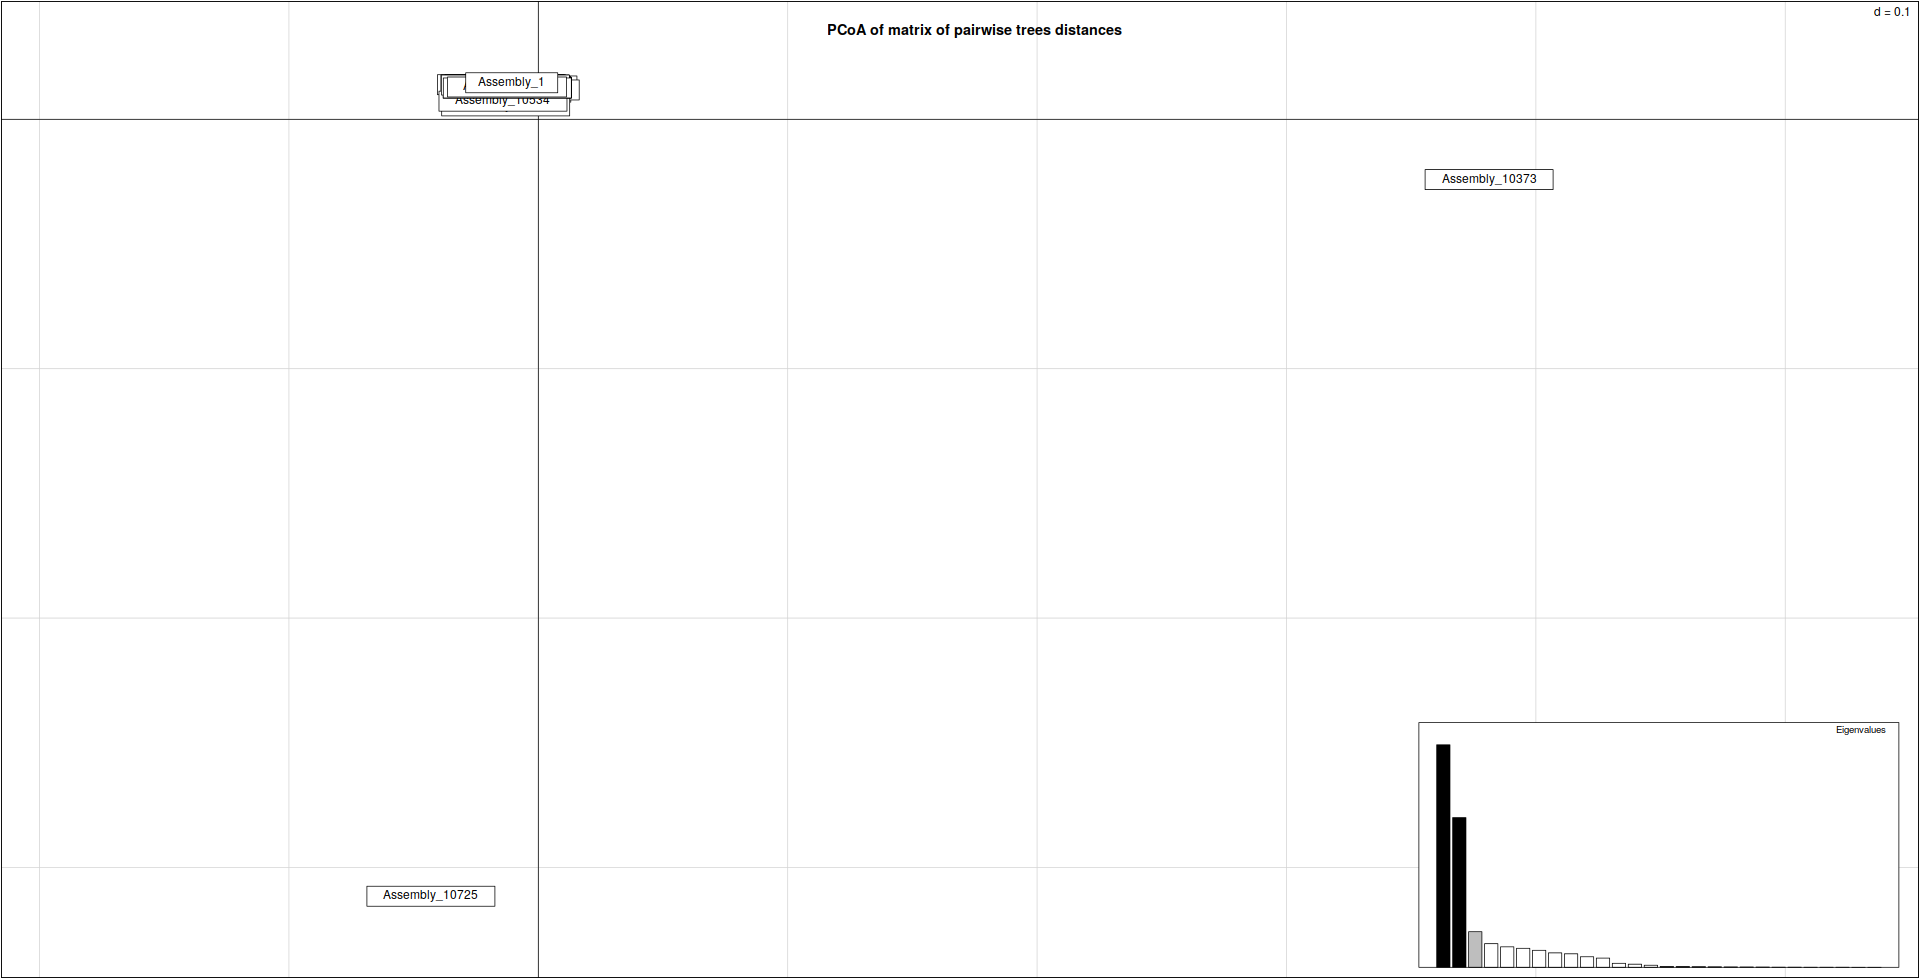
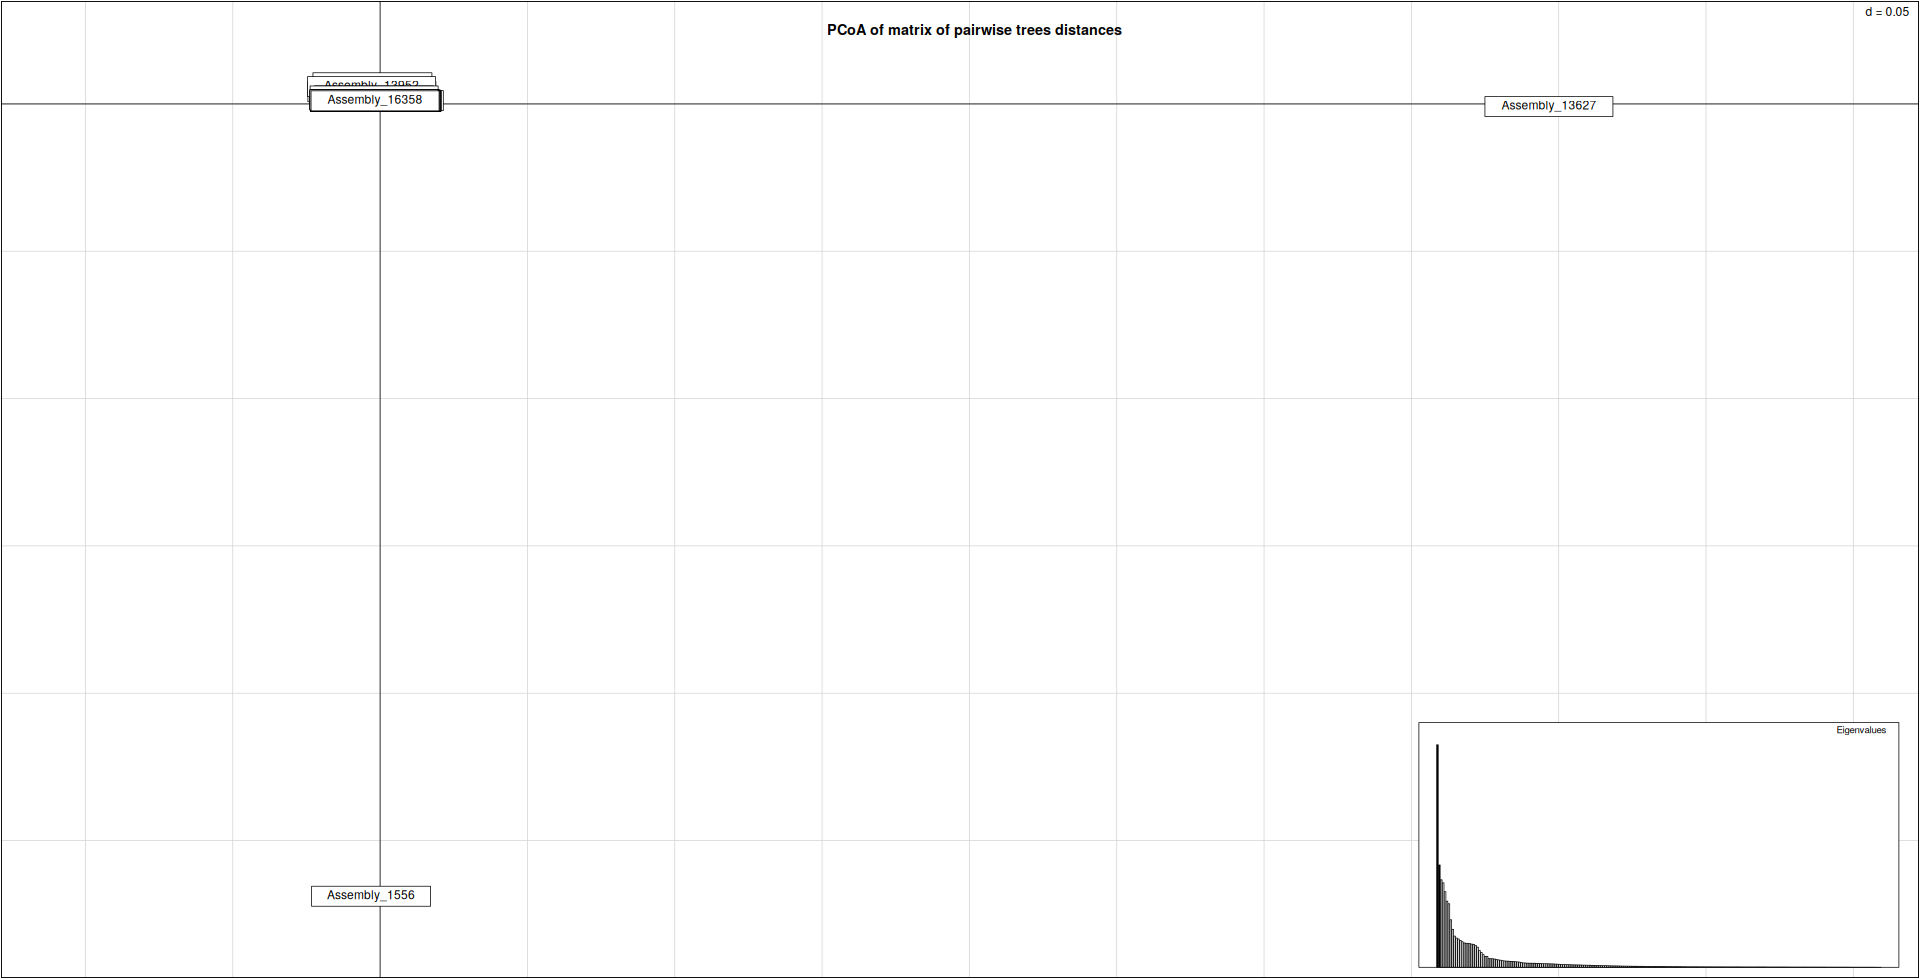
Updated filtration of trees in R, added installation of R packages. More info abou TreeShrink, PhyloNet and Phyparts.

diff --git a/presentation/hybseq_course.tex b/presentation/hybseq_course.tex
@@ -984,6 +984,22 @@
 	\end{block}
 \end{frame}
 
+\begin{frame}[fragile]{Install needed R packages}
+	\begin{itemize}
+		\item The tasks will be done in \href{https://www.r-project.org/}{R} (use e.g. \href{https://posit.co/products/open-source/rstudio/}{RStudio} or \href{https://rkward.kde.org/}{RKWard})
+		\item Following R code is available at \url{https://github.com/V-Z/hybseq-course/blob/master/trees_filtration.r} --- download it and edit according to your needs
+	\end{itemize}
+	\begin{spluscode}
+    # Install R packages
+    install.packages(pkgs=c("ape", "ade4", "distory", "gplots", "ggplot2",
+      "phangorn", "phytools"), repos="https://mirrors.nic.cz/R/",
+      dependencies="Imports")
+    # kdetrees is not availbale in CRAN, install it manually
+    install.packages(pkgs="https://cran.r-project.org/src/contrib/Archive/
+      kdetrees/kdetrees_0.1.5.tar.gz", repos=NULL)
+	\end{spluscode}
+\end{frame}
+
 \subsection{Visualizing differences among trees}
 
 \begin{frame}[allowframebreaks]{Distances comparing trees}
@@ -995,7 +1011,6 @@
 		\end{itemize}
 	\end{alertblock}
 	\begin{itemize}
-		\item The tasks will be done in \href{https://www.r-project.org/}{R}
 		\item Download e.g. \texttt{trees\_ml\_exons.nwk} (or another final list of gene trees) and work in \texttt{R} in your notebook
 		\begin{itemize}
 			\item Comparing plenty of individual gene trees, finding different topologies, construction of consensual species tree topology
@@ -1007,7 +1022,7 @@
 				\item If the difference is very close to root, RF value can be large, even there are not much differences in the tree at all --- \texttt{dist.multiPhylo} from package \href{https://CRAN.R-project.org/package=distory}{distory} can be an alternative, although interpretation of that geodesic distance is sometimes not so straightforward as simple logic of RF
 			\end{itemize}
 			\item Methods implemented in \texttt{ape::dist.topo} allow comparison of trees with polytomies (\texttt{method="PH85"}) or use of squared lengths of internal branches (\texttt{method="score"})
-			\item Final matrices are commonly not \href{https://en.wikipedia.org/wiki/Euclidean_distance_matrix}{Euclidean} --- may be problematic for usage in methods like PCA
+			\item Final matrices are commonly not \href{https://en.wikipedia.org/wiki/Euclidean_distance_matrix}{Euclidean} --- may be problematic for usage in methods like PCoA (it can show misleading results)
 			\begin{itemize}
 				\item Test it with \texttt{ade4::is.euclid}, can be scaled (forced to became Euclidean) by functions like \texttt{quasieuclid} or \texttt{cailliez} in \texttt{ade4} --- carefully, it can damage meaning of the data
 				\item We get matrix of pairwise differences among trees (from multiple genes), we need display and analyze it
@@ -1108,14 +1123,14 @@
 	\begin{spluscode}
     trees # See original trees
     # Remove trees identified in the PCoA plot
-    trees[c("Assembly_10373", "Assembly_10725")] <- NULL
+    trees[c("Assembly_1556", "Assembly_13627")] <- NULL
     trees # See new object
     # Possibly remove trees with too few tips
     print(trees, details=TRUE)
-    trees[c(1, 2, 7, 10, 14, 19, 20, 25)] <- NULL
-    trees
-    # Export filtered trees
-    write.tree(phy=trees, file="trees_exons_filtered.nwk")
+    trees[c(1, 2, 3, 4)] <- NULL
+    # Possibly remove rare tips
+    trees <- lapply(X=trees, FUN=drop.tip, tip=c("Amomum-sp7_S308_L001"))
+    class(trees) <- "multiPhylo" # Use after usage of lapply to multiPhylo
 	\end{spluscode}
 	\begin{itemize}
 		\item Now you can repeat recalculation of distance matrix and PCoA and possibly remove more trees\ldots{ }--- or use another method like kdetrees (next slide) etc.
@@ -1134,11 +1149,7 @@
 	\begin{spluscode}
     # Run kdetrees to detect outliers - play with k
     ?kdetrees # See options for kdetrees
-    # Remove rare tips
-    trees <- lapply(X=trees, FUN=drop.tip, tip=c("Paracostus_paradoxus_S266",
-      "Costus_tonkinensis_S268", "Orchidantha_chinensis_S352"))
-    class(trees) <- "multiPhylo"
-    trees.kde <- kdetrees(trees=trees, k=0.5 distance="dissimilarity",
+    trees.kde <- kdetrees(trees=trees, k=0.45 distance="dissimilarity",
       topo.only=FALSE, greedy=TRUE)
     # See text results with list of outlying trees
     trees.kde
@@ -1174,43 +1185,39 @@
 
 \begin{frame}[fragile]{TreeShrink}
 	\begin{itemize}
-		\item Algorithm for detecting abnormally long branches in one or more phylogenetic trees \href{https://bmcgenomics.biomedcentral.com/articles/10.1186/s12864-018-4620-2}{Mai et Mirarab 2018}
-		\item Requires \href{https://www.r-project.org/}{R} 4.0.X to be installed (e.g. module \texttt{R-4.0.0-gcc})
-		\item See \href{https://github.com/uym2/TreeShrink}{more usage options}
+		\item Algorithm for detecting abnormally long branches in one or more phylogenetic trees \href{https://bmcgenomics.biomedcentral.com/articles/10.1186/s12864-018-4620-2}{Mai et Mirarab 2018} (see \href{https://github.com/uym2/TreeShrink}{details})
+		\item Requires \href{https://www.r-project.org/}{R} 4.X to be installed (e.g. module \texttt{R-4.0.0-gcc})
+		\item Work in command line of your notebook (Linux, macOS), or on MetaCentrum
 	\end{itemize}
 	\begin{bashcode}
-    # Go to ~/bin directory
-    cd ~/bin/ || { mkdir ~/bin && cd ~/bin/; }
-    # Download TreeShrink
-    git clone https://github.com/uym2/TreeShrink.git
-    cd TreeShrink/
-    # Install it
-    python3 setup.py install --user # Or if using conda
-    conda install -c smirarab treeshrink
+    # On MetaCentrum load Python and R modules
+    module add python/3.9.12-gcc-10.2.1-rg2lpmk r/4.1.3-gcc-10.2.1-6xt26dl
+    cd ~/bin/ || { mkdir ~/bin && cd ~/bin/; } # Go to ~/bin directory
+    git clone https://github.com/uym2/TreeShrink.git # Download TreeShrink
+    cd TreeShrink/ # Install it
+    python3 setup.py install --user
+    conda install -c smirarab treeshrink # Or if using conda
     # Go to directory with trees_good.nwk and run TreeShrink
     python3 ~/.local/bin/run_treeshrink.py -h # See help
-    run_treeshrink.py -t trees_good.nwk -o treeshrink -O exons
-    ls -lha treeshrink/ # Results
+    run_treeshrink.py -t trees_good.nwk -o treeshrink_exons -O
+      treeshrink_exons | tee treeshrink.log
+    ls -lha treeshrink_exons/ # Results
 	\end{bashcode}
 \end{frame}
 
-\begin{frame}{Outputs of TreeShrink} % [fragile]
+\begin{frame} [fragile]{Outputs of TreeShrink}
 	\begin{itemize}
-		\item Output (3 files) is saved into directory (in our case) \texttt{treeshrink}
-		\item File \texttt{*.nwk} contains new list of phylogenetic trees in \texttt{NEWICK} which can be then used as an input for any species tree reconstruction software
-		\item \texttt{*.txt} files can be bit hard to read
-		\begin{itemize}
-			\item \texttt{exons.txt} has one line for every tree in the input list and every line contains list of removed tips --- if there is an empty line, no tip was removed from that particular tree; trees are not named, only in same order as in the original input file
-			\item \texttt{exons\_summary.txt} contains statistics for affected taxa
-		\end{itemize}
-		\item \texttt{exons.nwk} can be directly used as input for ASTRAL or so (see also lesson by TF)
+		\item Output (2 files) is saved into directory (in our case) \texttt{treeshrink\_exons}
+		\item File \texttt{treeshrink\_exons.nwk} contains new list of phylogenetic trees in \texttt{NEWICK} which can be then used as an input for any species tree reconstruction software (ASTRAL,~\ldots)
+		\item \texttt{treeshrink\_exons.txt} can be bit hard to read --- it has one line for every tree in the input list and every line contains list of removed tips --- if there is an empty line, no tip was removed from that particular tree; trees are not named, only in same order as in the original input file
+		\item \texttt{treeshrink\_exons\_summary.txt} contains statistics for affected taxa
 	\end{itemize}
-% 	\begin{bashcode}
-%     # Find out how many times particular sample was removed from the list of
-%     # the trees
-%     grep -o "\<[[:graph:]]\+\>" trees_good_RS_0.05.txt | sort | uniq -c |
-%       sort -r
-% 	\end{bashcode}
+	\begin{bashcode}
+    # Find out how many times particular sample was removed from the list of
+    # the trees
+    grep -o "\<[[:graph:]]\+\>" treeshrink_exons/treeshrink_exons.txt | sort
+      | uniq -c | sort -gr
+	\end{bashcode}
 \end{frame}
 
 \subsection{Species trees}
@@ -1226,6 +1233,8 @@
     tree.sp <- superTree(tree=trees.good, method="NNI", rooted=TRUE,
       trace=2, start=NULL, multicore=TRUE)
     tree.sp # See details
+    tree.sp <- root(phy=tree.sp, outgroup=c("Riedelia-arfakensis_S49_L001",
+      "Zingiber-officinale_S242_L001"), resolve.root=TRUE) # Root it
     # Save parsimony super tree
     write.tree(phy=tree.sp, file="parsimony_sp_tree.nwk")
     # Plot parsimony super tree
@@ -1235,9 +1244,6 @@
     # Tune display of the tree...
 	\end{spluscode}
 \end{frame}
-%     # Rooting the species tree
-%     tree.sp <- root(phy=tree.sp, outgroup="o_purpurascens_S482",
-%       resolve.root=TRUE)
 
 \begin{frame}[fragile]{Other options for species tree estimation in R}
 	\begin{itemize}
@@ -1246,7 +1252,7 @@
 		\item Coalescence model handling multiple individuals per species is in \texttt{phangorn::coalSpeciesTree}
 	\end{itemize}
 	\begin{spluscode}
-    # See help for mrp.supertree and coalSpeciesTree
+    ?ape::speciesTree # See help...
     ?phytools::mrp.supertree
     ?phangorn::coalSpeciesTree
     # All trees must be ultrametric - chronos scale them
@@ -1283,8 +1289,11 @@
 
 \begin{frame}[fragile]{Phylonet}
 	\begin{itemize}
-		\item Requires as input NEXUS file with settings describing \href{https://wiki.rice.edu/confluence/display/PHYLONET/List+of+PhyloNet+Commands}{PhyloNet commands} (see example below) --- e.g. export NEXUS from \texttt{R}
+		\item Requires as input NEXUS file with \href{https://wiki.rice.edu/confluence/display/PHYLONET/List+of+PhyloNet+Commands}{PhyloNet commands} (see below) --- e.g. export from \texttt{R}:
 	\end{itemize}
+	\begin{spluscode}
+    ape::write.nexus(trees.good, file="trees_good.nex", translate=FALSE)
+	\end{spluscode}
 	\begin{bashcode}
     #NEXUS
     BEGIN TREES;
@@ -1298,22 +1307,26 @@
     END;
 
     # Download binary JAR file (ready to run)
-    wget https://bioinfocs.rice.edu/sites/g/files/bxs266/f/kcfinder/files/
-      PhyloNet_3.8.2.jar
-    java -Xmx8g -jar PhyloNet_3.8.2.jar file.nex | tee file.log
+    wget https://phylogenomics.rice.edu/media/PhyloNet.jar
+    java -Xmx8g -jar PhyloNet.jar trees_good.nex | tee phylonet_exons.log
 	\end{bashcode}
 \end{frame}
 
 \begin{frame}{Running phylonet}
 	\begin{itemize}
 		\item \href{https://phylogenomics.rice.edu/html/phylonet.html}{PhyloNet} has various options how to create phylogenetic network
-		\item Can be computationally very demanding, running long time
-		\item Prepare the list of trees for the NEXUS file e.g. in spreadsheet
+		\item Can be computationally very demanding, running long time --- preferably run on MetaCentrum in standard batch job
 		\item The \texttt{PHYLONET} section of the input NEXUS contains settings according to \href{https://wiki.rice.edu/confluence/display/PHYLONET/List+of+PhyloNet+Commands}{list of commands}
 		\item TreeID can be completely random, or simple consecutive sequence like GT0001--GT\#\#\#\#
 		\item PhyloNet can be computationally very demanding, calculating more than 1--3 reticulations can be unrealistic in terms of time needed\ldots
-		\item It does not save output file, the network in special NWK format for \href{https://www.wsi.uni-tuebingen.de/lehrstuehle/algorithms-in-bioinformatics/software/dendroscope/}{Dendroscope} is on the end --- copy it from terminal (after \texttt{Visualize in Dendroscope :}) or log file and save as tiny TXT, which can be opened in \href{https://www.wsi.uni-tuebingen.de/lehrstuehle/algorithms-in-bioinformatics/software/dendroscope/}{Dendroscope}
+		\item It \textbf{does not save output} file, the network in special NWK format for \href{https://www.wsi.uni-tuebingen.de/lehrstuehle/algorithms-in-bioinformatics/software/dendroscope/}{Dendroscope} is on the end (after \texttt{Visualize in Dendroscope :}) --- copy it from terminal or log file (e.g. \texttt{tee} from previous slide), extract and save as tiny TXT, which can be opened in \href{https://www.wsi.uni-tuebingen.de/lehrstuehle/algorithms-in-bioinformatics/software/dendroscope/}{Dendroscope}
 	\end{itemize}
+\end{frame}
+
+\begin{frame}{PhyloNet in Dendroscope}
+	\begin{center}
+		\includegraphics[height=6.5cm]{dendroscope.png}
+	\end{center}
 \end{frame}
 
 \subsection{Comparing trees}
@@ -1332,7 +1345,7 @@
     # Install PhyParts_PieCharts
     git clone https://github.com/mossmatters/MJPythonNotebooks.git
     # Or on MetaCentrum...
-    module add phyparts-0.0.1
+    module add phyparts/0.0.1
     # Split list of trees into individual files
     mkdir trees_good
     split -a 4 -d -l 1 trees_good.nwk trees_good/trees_good_
